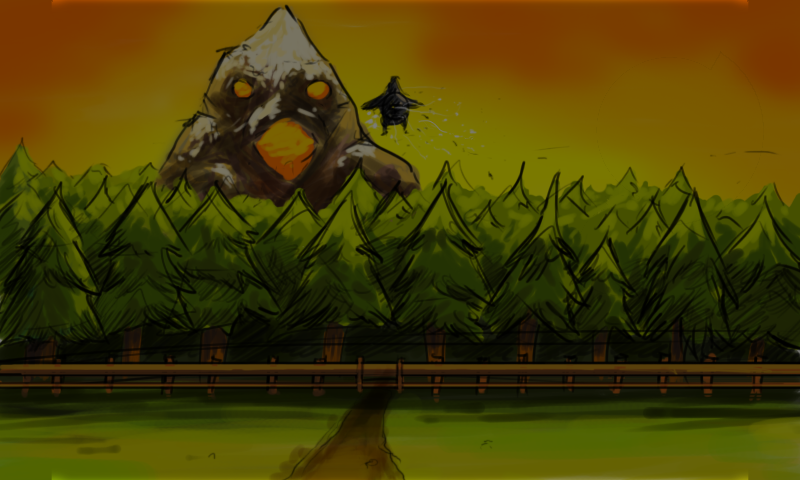
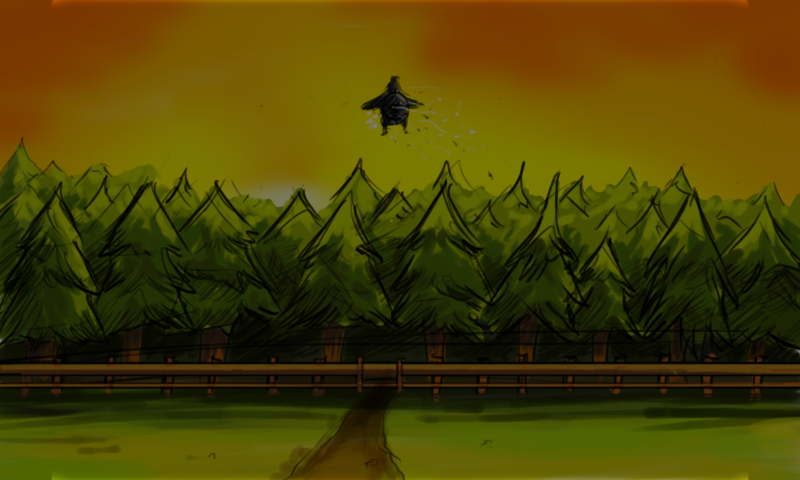
Added campaign ending background image. Edited between levels background image to remove the fucking mountain that made no sense.

Changed region(s): [[0.1875, 0.0, 0.5312, 0.4375], [0.9375, 0.3125, 0.9688, 0.3438]]

diff --git a/GameStateManagement/ScreenManager.cs b/GameStateManagement/ScreenManager.cs
@@ -27,6 +27,7 @@ namespace GameStateManagement
         cluckScene,
         betweenLevel,
         lostCampaign,
+        wonCampaign,
         black,
         white
     }
@@ -54,6 +55,7 @@ namespace GameStateManagement
         Texture2D backgroundTexture;
         Texture2D betweenLevelTexture;
         Texture2D lostCampaignTexture;
+        Texture2D wonCampaignTexture;
 
         bool isInitialized;
 
@@ -100,9 +102,20 @@ namespace GameStateManagement
             get { return betweenLevelTexture; }
         }
 
+        /// <summary>
+        /// Background image used when player loses in campaign mode.
+        /// </summary>
         public Texture2D LostCampaign
         {
             get { return lostCampaignTexture; }
+        }
+
+        /// <summary>
+        /// Background image used when player finishes campaign mode.
+        /// </summary>
+        public Texture2D WonCampaign
+        {
+            get { return wonCampaignTexture; }
         }
 
         /// <summary>
@@ -169,6 +182,7 @@ namespace GameStateManagement
             backgroundTexture = content.Load<Texture2D>("background");
             betweenLevelTexture = content.Load<Texture2D>("betweenlevels");
             lostCampaignTexture = content.Load<Texture2D>("lostcampaign");
+            wonCampaignTexture = content.Load<Texture2D>("woncampaign");
 
             // Tell each of the screens to load their content.
             foreach (GameScreen screen in screens)

diff --git a/Cluck/Cluck/Screens/EndCampaignScreen.cs b/Cluck/Cluck/Screens/EndCampaignScreen.cs
@@ -27,7 +27,7 @@ namespace Cluck
         public EndCampaignScreen(int score, int highscore)
             : base("Cluck has been satisfied! Your village is safe for the rest of the year!\n Your Score: " + score + "\n High-Score: " + highscore)
         {
-            Background = BackgroundTexture.cluckScene;
+            Background = BackgroundTexture.wonCampaign;
             // Create our menu entries.
             MenuEntry mainMenuGameMenuEntry = new MenuEntry("Go To Back Main Menu");
 

diff --git a/Cluck/Cluck/Screens/ArcadeWinScreen.cs b/Cluck/Cluck/Screens/ArcadeWinScreen.cs
@@ -29,7 +29,7 @@ namespace Cluck
         public ArcadeWinScreen(int score, int highscore)
             : base( "\n Your Score: " + score + "\n High-Score: " + highscore)
         {
-            Background = BackgroundTexture.cluckScene;
+            Background = BackgroundTexture.black;
             // Create our menu entries.
             MenuEntry continueGameMenuEntry = new MenuEntry("Play Again");
             MenuEntry mainMenuGameMenuEntry = new MenuEntry("Go To Back Main Menu");

diff --git a/Cluck/Cluck/Screens/MenuScreen.cs b/Cluck/Cluck/Screens/MenuScreen.cs
@@ -268,6 +268,9 @@ namespace Cluck
                 case BackgroundTexture.lostCampaign:
                     backgroundTex = ScreenManager.LostCampaign;
                     break;
+                case BackgroundTexture.wonCampaign:
+                    backgroundTex = ScreenManager.WonCampaign;
+                    break;
                 default: // black
                     break;
             }

diff --git a/Cluck/Cluck/Screens/InstructionScreen.cs b/Cluck/Cluck/Screens/InstructionScreen.cs
@@ -31,7 +31,7 @@ namespace Cluck
         public InstructionScreen(int stage)
             : base("")
         {
-            Background = BackgroundTexture.cluckScene;
+            Background = BackgroundTexture.black;
             MenuEntry nextInstructionMenuEntry;
 
             if (stage == 0)
